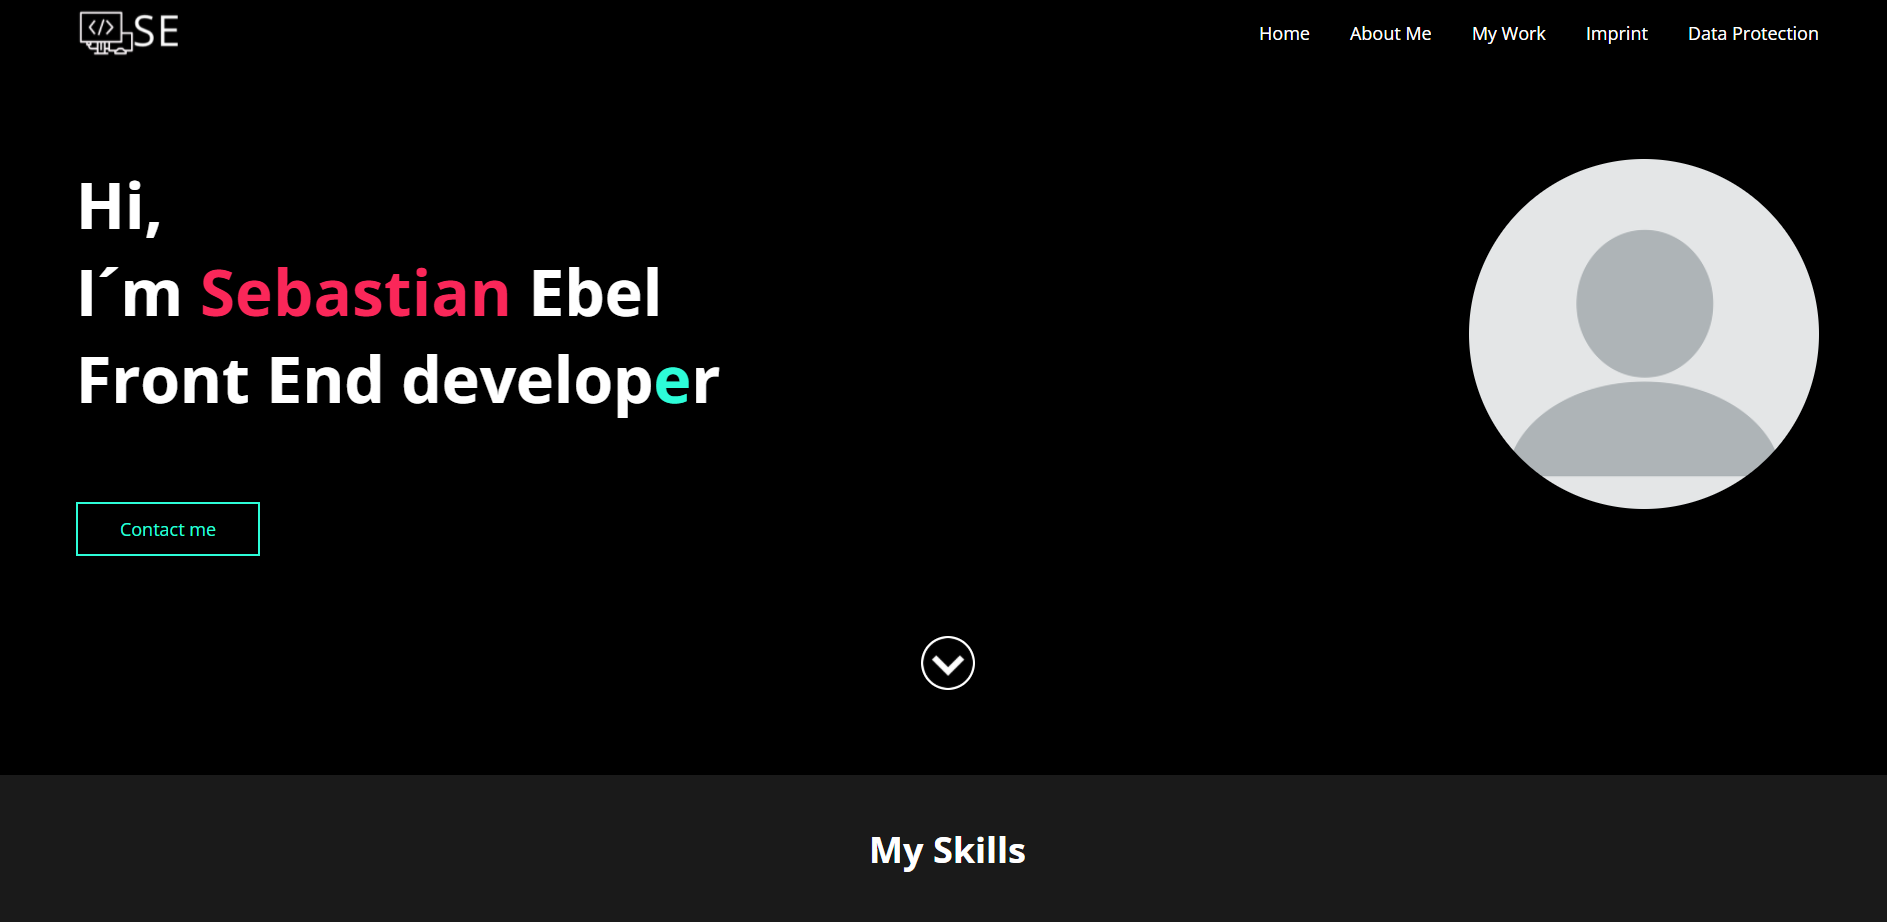
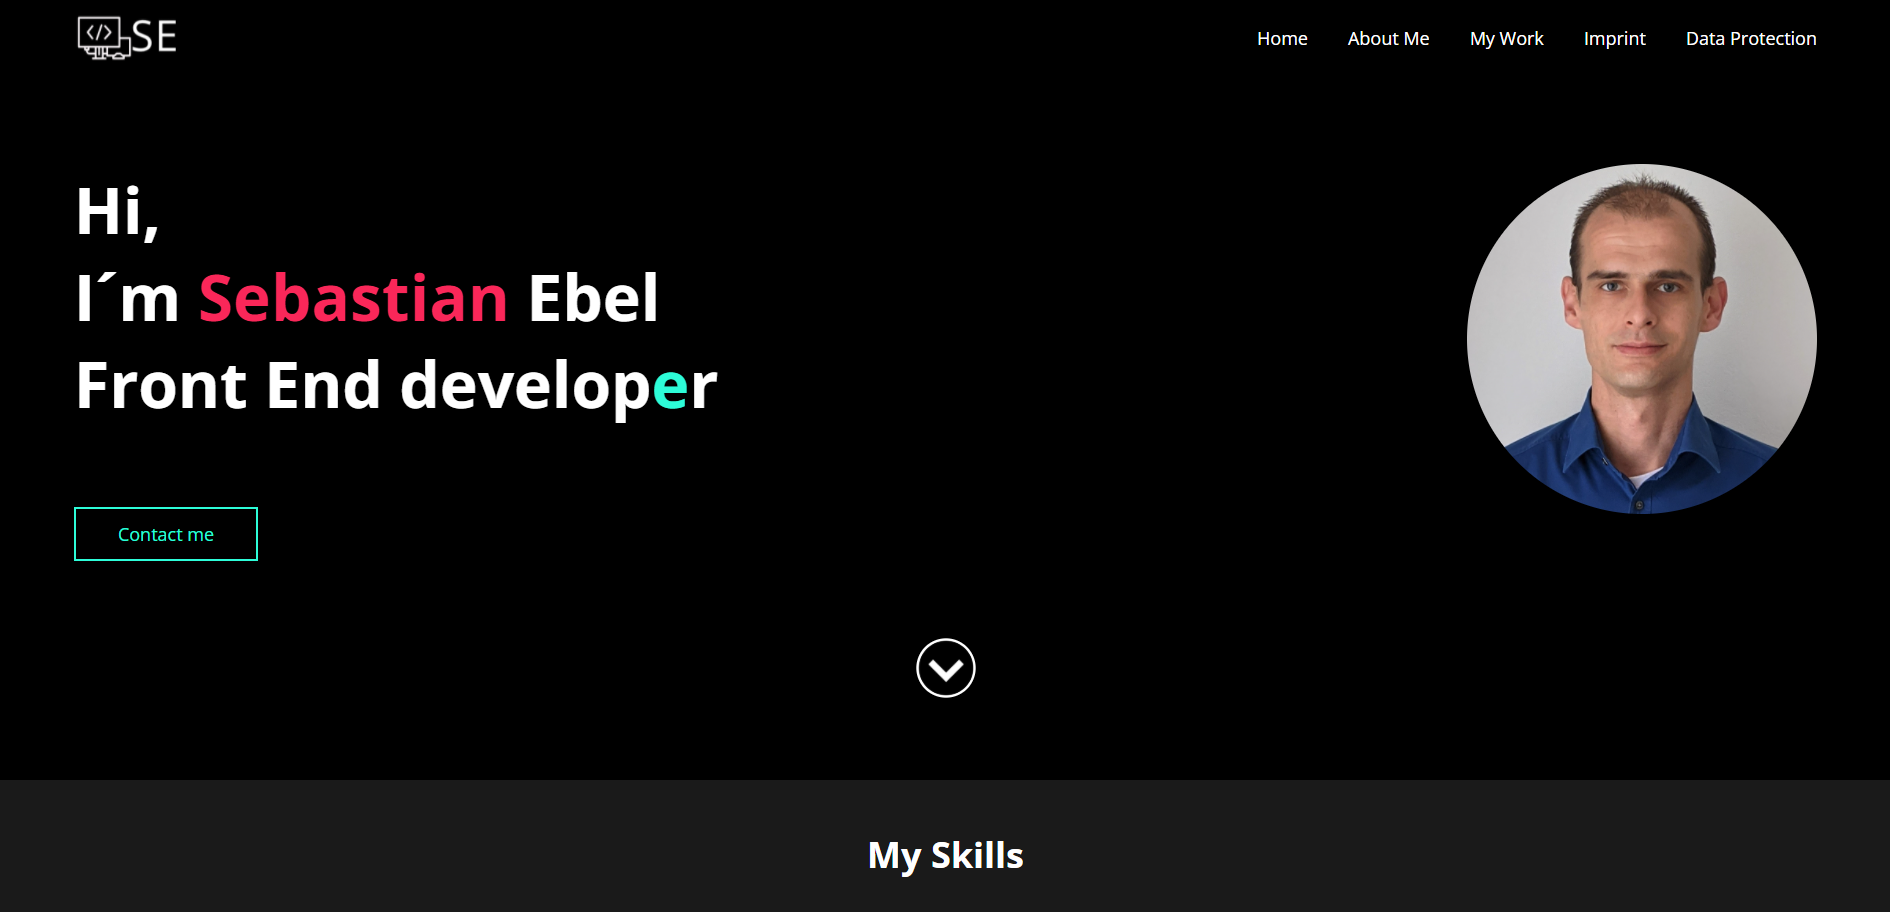
picture added

diff --git a/src/app/home/explain-about-me/explain-about-me.component.html b/src/app/home/explain-about-me/explain-about-me.component.html
@@ -1,7 +1,7 @@
 <div id="aboutMe" class="container">
     <div class="container-explain">
         <div class="explain-me">
-            <img src="assets/img/profile.png">
+            <img src="assets/img/profil.jpg">
             <span class="short-explain">
                 <h2>About me.</h2>
                 "I´m someone who enjoys spending time with the family and<br>

diff --git a/src/app/home/about-me/about-me.component.html b/src/app/home/about-me/about-me.component.html
@@ -7,7 +7,7 @@
         </div>
     </div>
     <div>
-        <img src="assets/img/profile.png">
+        <img src="assets/img/profil.jpg">
     </div>
 </div>
 <div class="container-arrow"><a (click)="tomyskill()"><img src="assets/img/arrow-bottom.ico"></a></div>

diff --git a/src/app/home/explain-about-me/explain-about-me.component.scss b/src/app/home/explain-about-me/explain-about-me.component.scss
@@ -21,6 +21,7 @@
             border-radius: 50%;
             margin-right: 80px;
             margin-bottom: 80px;
+            object-fit: cover;
         }
 
         .short-explain{

diff --git a/src/app/home/about-me/about-me.component.scss b/src/app/home/about-me/about-me.component.scss
@@ -26,6 +26,7 @@
         height: 350px;
         width: 350px;
         border-radius: 50%;
+        object-fit: cover;
     }
 
     .container-contactMe{
